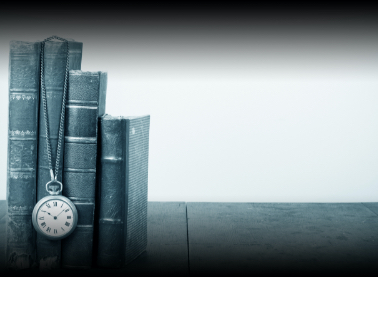
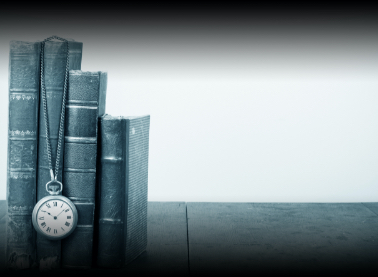
Update Assets In The img Directory
This commit updates all assets in the img folder, correcting both some
cropping faults as well as some colour casts that were absent. In
addition there is now one image for each screen size, simplifying the
process of delivering content to each device.

Visible images in the html files have been updated. However images that
are currently commented out with be dealt with when they are added
back into the flow of the document.

diff --git a/index.html b/index.html
@@ -20,8 +20,8 @@
     <!-- Header -->
     <header>
         <nav class="navbar navbar-expand-custom p-0 navbar-dark">
-            <a class="navbar-brand m-0 p-0" href="./index.html"><img id="brand"
-                    src="./assets/img/web/web_fidil_logo_large.svg" alt="Fidil logo" height="56px" /></a>
+            <a class="navbar-brand m-0 p-0" href="./index.html"><img id="brand" src="./assets/img/fidil_logo.svg"
+                    alt="Fidil logo" height="56px" /></a>
 
             <button class="navbar-toggler" type="button" data-toggle="collapse" data-target="#navbarSupportedContent"
                 aria-controls="navbarSupportedContent" aria-expanded="false" aria-label="Toggle navigation">
@@ -52,15 +52,15 @@
 
         <div class="hero-container">
             <div class="hero-logo">
-                <img src="./assets/img/web/web_fidil_logo_large.svg" alt="Fidil Logo" />
+                <img src="./assets/img/fidil_logo.svg" alt="Fidil Logo" />
                 <h2>The Irish Music Resource</h2>
             </div>
         </div>
     </div>
     <div class="hero-image">
         <picture>
-            <source media="(min-width: 1366px)" srcset="./assets/img/web/web_boxes@2x.jpg">
-            <img src="./assets/img/tablet/tablet_boxes@2x.jpg" alt="accordions" />
+            <source media="(min-width: 1366px)" srcset="./assets/img/web/web_boxes.jpg">
+            <img src="./assets/img/tablet/tablet_boxes.jpg" alt="accordions" />
         </picture>
 
     </div>
@@ -84,9 +84,9 @@
 
 
             <picture>
-                <source media="(min-width: 1366px)" srcset="./assets/img/web/web_bodhrad_small@2x.jpg">
-                <source media="(min-width: 788px)" srcset="assets/img/tablet/tablet_bodhran_blue@2x.jpg">
-                <img src="assets/img/phone/phone_bodhran_blue@2x.jpg" alt="bodhran" />
+                <source media="(min-width: 1366px)" srcset="assets/img/web/web_bodhran_blue.jpg">
+                <source media="(min-width: 788px)" srcset="./assets/img/tablet/tablet_bodhran_blue.jpg">
+                <img src="./assets/img/phone/phone_bodhran_blue.jpg" alt="bodhran" />
             </picture>
             <h3>Instruments</h3>
             <p>
@@ -104,15 +104,15 @@
             <a href="./instruments.html" class="card-button">
                 <div class="red"></div>
                 <p class="read-more-link">Read More</p>
-                <img src="./assets/img/web/icon_arrow.svg" alt="arrow icon" />
+                <img src="./assets/img/icon_arrow.svg" alt="arrow icon" />
             </a>
         </div>
         <!-- Card 2 -->
         <div class="card card-home">
             <picture>
-                <source media="(min-width: 1366px)" srcset="./assets/img/web/web_hard_shoes_small@2x.jpg">
-                <source media="(min-width: 788px)" srcset="./assets/img/tablet/tablet_shoes_blue@2x.jpg">
-                <img src="./assets/img/phone/phone_shoes_blue@2x.jpg" alt="dance shoes">
+                <source media="(min-width: 1366px)" srcset="./assets/img/web/web_hard_shoes_blue.jpg">
+                <source media="(min-width: 788px)" srcset="./assets/img/tablet/tablet_hard_shoes_blue.jpg">
+                <img src="./assets/img/phone/phone_hard_shoes_blue.jpg" alt="dance shoes">
             </picture>
 
             <h3>Dances</h3>
@@ -127,15 +127,15 @@
             <a href="./instruments.html" class="card-button">
                 <div class="red"></div>
                 <p class="read-more-link">Read More</p>
-                <img src="./assets/img/web/icon_arrow.svg" alt="arrow icon" />
+                <img src="./assets/img/icon_arrow.svg" alt="arrow icon" />
             </a>
         </div>
         <!-- Card 3 -->
         <div class="card card-home">
             <picture>
-                <source media="(min-width: 1366px)" srcset="./assets/img/web/web_books_small@2x.jpg">
-                <source media="(min-width: 788px)" srcset="./assets/img/tablet/tablet_books_blue@2x.jpg">
-                <img src="./assets/img/phone/phone_books_blue@2x.jpg" alt="history books">
+                <source media="(min-width: 1366px)" srcset="./assets/img/web/web_books_blue.jpg">
+                <source media="(min-width: 788px)" srcset="./assets/img/tablet/tablet_books_blue.jpg">
+                <img src="./assets/img/phone/phone_books_blue.jpg" alt="history books">
             </picture>
 
             <h3>History</h3>
@@ -150,7 +150,7 @@
             <a href="./instruments.html" class="card-button">
                 <div class="red"></div>
                 <p class="read-more-link">Read More</p>
-                <img src="./assets/img/web/icon_arrow.svg" alt="arrow icon" />
+                <img src="./assets/img/icon_arrow.svg" alt="arrow icon" />
             </a>
         </div>
     </main>
@@ -171,7 +171,7 @@
         </ul>
 
         <a class="footer-logo" href="./index.html">
-            <img src="./assets/img/web/web_fidil_logo_large.svg" alt="Fidil Logo" height="56px" />
+            <img src="./assets/img/fidil_logo.svg" alt="Fidil Logo" height="56px" />
         </a>
     </footer>
 

diff --git a/history.html b/history.html
@@ -22,8 +22,8 @@
     <!-- Header -->
     <header>
         <nav class="navbar navbar-expand-custom p-0 navbar-dark">
-            <a class="navbar-brand m-0 p-0" href="./index.html"><img id="brand"
-                    src="./assets/img/web/web_fidil_logo_large.svg" alt="Fidil logo" height="56px"></a>
+            <a class="navbar-brand m-0 p-0" href="./index.html"><img id="brand" src="./assets/img/fidil_logo.svg"
+                    alt="Fidil logo" height="56px"></a>
             <button class="navbar-toggler" type="button" data-toggle="collapse" data-target="#navbarSupportedContent"
                 aria-controls="navbarSupportedContent" aria-expanded="false" aria-label="Toggle navigation">
                 <span class="navbar-toggler-icon"></span>
@@ -67,13 +67,13 @@
         <div class="card card-history">
             <div class="history-card-images">
                 <picture class="primary-image">
-                    <source media="(min-width: 1366px)" srcset="./assets/img/web/web_history_fiddle_orange@2x.jpg">
-                    <source media="(min-width: 788px)" srcset="./assets/img/tablet/tablet_history1_fiddle@2x.jpg">
-                    <img src="./assets/img/phone/phone_history_fiddle@2x.jpg" alt="Fiddle">
+                    <source media="(min-width: 1366px)" srcset="./assets/img/web/web_history_fiddle_orange.jpg">
+                    <source media="(min-width: 788px)" srcset="./assets/img/tablet/tablet_history_fiddle.jpg">
+                    <img src="./assets/img/phone/phone_history_fiddle.jpg" alt="Fiddle">
                 </picture>
                 <picture class="secondary-image">
-                    <source media="(min-width: 1366px)" srcset="./assets/img/web/web_history_soft_shoes_orange@2x.jpg">
-                    <img src="./assets/img/tablet/tablet_history1_shoes@2x.jpg" alt="">
+                    <source media="(min-width: 1366px)" srcset="./assets/img/web/web_history_soft_shoes_orange.jpg">
+                    <img src="./assets/img/tablet/tablet_history_shoes.jpg" alt="soft shoes">
                 </picture>
 
 
@@ -108,7 +108,7 @@
             <a href="./instruments.html" class="card-button">
                 <div class="red"></div>
                 <p class="read-more-link">Read More</p>
-                <img src="./assets/img/web/icon_arrow.svg" alt="arrow icon" />
+                <img src="./assets/img/icon_arrow.svg" alt="arrow icon" />
             </a>
         </div>
 
@@ -164,7 +164,7 @@
 
 
             <a class="footer-logo" href="./index.html">
-                <img src="./assets/img/web/web_fidil_logo_large.svg" alt="Fidil Logo" height="56px">
+                <img src="./assets/img/fidil_logo.svg" alt="Fidil Logo" height="56px">
             </a>
         </footer>
 

diff --git a/instruments.html b/instruments.html
@@ -22,8 +22,8 @@
     <!-- Header -->
     <header>
         <nav class="navbar navbar-expand-custom p-0 navbar-dark">
-            <a class="navbar-brand m-0 p-0" href="./index.html"><img id="brand"
-                    src="./assets/img/web/web_fidil_logo_large.svg" alt="Fidil logo" height="56px"></a>
+            <a class="navbar-brand m-0 p-0" href="./index.html"><img id="brand" src="./assets/img/fidil_logo.svg"
+                    alt="Fidil logo" height="56px"></a>
             <button class="navbar-toggler" type="button" data-toggle="collapse" data-target="#navbarSupportedContent"
                 aria-controls="navbarSupportedContent" aria-expanded="false" aria-label="Toggle navigation">
                 <span class="navbar-toggler-icon"></span>
@@ -68,9 +68,9 @@
         <!-- Instrument Card 1 -->
         <div class="card card-instruments">
             <picture>
-                <source media="(min-width: 1366px)" srcset="./assets/img/web/web_fiddle@2x.jpg">
-                <source media="(min-width: 788px)" srcset="./assets/img/tablet/tablet_fiddle@2x.jpg">
-                <img src="./assets/img/phone/phone_fiddle@2x.jpg" alt="Fiddle">
+                <source media="(min-width: 1366px)" srcset="./assets/img/web/web_fiddle.jpg">
+                <source media="(min-width: 788px)" srcset="./assets/img/tablet/tablet_fiddle.jpg">
+                <img src="./assets/img/phone/phone_fiddle.jpg" alt="Fiddle">
             </picture>
 
             <h3>Fiddle</h3>
@@ -103,7 +103,7 @@
             <a href="./instruments.html" class="card-button">
                 <div class="red"></div>
                 <p class="read-more-link">Read More</p>
-                <img src="./assets/img/web/icon_arrow.svg" alt="arrow icon" />
+                <img src="./assets/img/icon_arrow.svg" alt="arrow icon" />
             </a>
         </div>
         <!-- Instrument Card 2 
@@ -193,7 +193,7 @@
 
 
             <a class="footer-logo" href="./index.html">
-                <img src="./assets/img/web/web_fidil_logo_large.svg" alt="Fidil Logo" height="56px">
+                <img src="./assets/img/fidil_logo.svg" alt="Fidil Logo" height="56px">
             </a>
         </footer>
 

diff --git a/dances.html b/dances.html
@@ -22,8 +22,8 @@
     <!-- Header -->
     <header>
         <nav class="navbar navbar-expand-custom p-0 navbar-dark">
-            <a class="navbar-brand m-0 p-0" href="./index.html"><img id="brand"
-                    src="./assets/img/web/web_fidil_logo_large.svg" alt="Fidil logo" height="56px"></a>
+            <a class="navbar-brand m-0 p-0" href="./index.html"><img id="brand" src="./assets/img/fidil_logo.svg"
+                    alt="Fidil logo" height="56px"></a>
             <button class="navbar-toggler" type="button" data-toggle="collapse" data-target="#navbarSupportedContent"
                 aria-controls="navbarSupportedContent" aria-expanded="false" aria-label="Toggle navigation">
                 <span class="navbar-toggler-icon"></span>
@@ -67,9 +67,9 @@
         <!-- Dance Card 1 -->
         <div class="card card-dances">
             <picture>
-                <source media="(min-width: 1366px)" srcset="./assets/img/web/web_soft_shoes@2x.jpg">
-                <source media="(min-width: 788px)" srcset="./assets/img/tablet/tablet_soft_shoes@2x.jpg">
-                <img src="./assets/img/phone/phone_soft_shoes@2x.jpg" alt="Soft Dance Shoes">
+                <source media="(min-width: 1366px)" srcset="./assets/img/web/web_soft_shoes.jpg">
+                <source media="(min-width: 788px)" srcset="./assets/img/tablet/tablet_soft_shoes.jpg">
+                <img src="./assets/img/phone/phone_soft_shoes.jpg" alt="Soft Dance Shoes">
             </picture>
 
             <h3>Jigs</h3>
@@ -92,7 +92,7 @@
             <a href="./instruments.html" class="card-button">
                 <div class="red"></div>
                 <p class="read-more-link">Read More</p>
-                <img src="./assets/img/web/icon_arrow.svg" alt="arrow icon" />
+                <img src="./assets/img/icon_arrow.svg" alt="arrow icon" />
             </a>
         </div>
 
@@ -172,7 +172,7 @@
 
 
             <a class="footer-logo" href="./index.html">
-                <img src="./assets/img/web/web_fidil_logo_large.svg" alt="Fidil Logo" height="56px">
+                <img src="./assets/img/fidil_logo.svg" alt="Fidil Logo" height="56px">
             </a>
         </footer>
 
